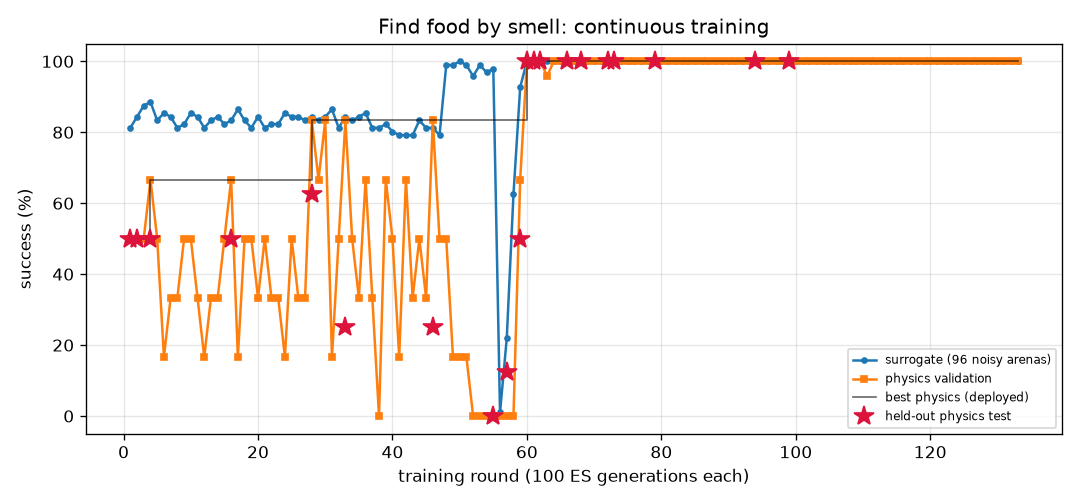
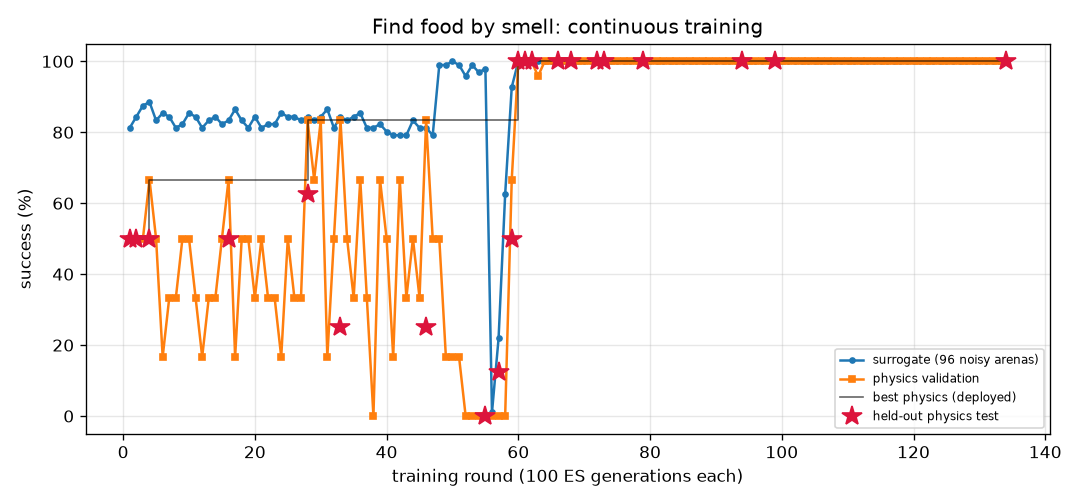
FlyLab: continuous training progress
- walk_forward: optimal, physics val 100% of 24, round 170
- turn: optimal, physics val 100% of 24, round 625
- goto: optimal, physics val 100% of 24, round 154
- odor_seek: optimal, physics val 100% of 24, round 134
- odor_avoid: optimal, physics val 100% of 24, round 600
- light_seek: optimal, physics val 100% of 24, round 338
- light_avoid: optimal, physics val 100% of 24, round 335

diff --git a/projects/09_flylab/training/walk_forward/REPORT.md b/projects/09_flylab/training/walk_forward/REPORT.md
@@ -1,14 +1,14 @@
 # Walk forward (`walk_forward`) — training report
 
-*Auto-generated by `train_brains.py`, last updated 2026-10-22T22:31:02.*
+*Auto-generated by `train_brains.py`, last updated 2026-10-24T22:12:05.*
 
 ![curve](curve.png)
 
 | | |
 |---|---|
-| rounds | 163 |
-| ES generations | 16300 |
-| physics runs | 3926 |
+| rounds | 170 |
+| ES generations | 17000 |
+| physics runs | 4094 |
 | status | **optimal** |
 | best brain | round 116: physics validation **100%** on 24 arenas, surrogate 100% |
 | held-out physics test | **100%** on 32 unseen arenas (95% CI 89%-100%) (errors: [0.13, 0.16, 0.19, 0.16, 0.15, 0.2, 0.17, 0.18, 0.17, 0.19, 0.2, 0.14, 0.17, 0.19, 0.2, 0.2, 0.13, 0.19, 0.16, 0.2, 0.2, 0.16, 0.17, 0.2, 0.13, 0.15, 0.18, 0.14, 0.16, 0.15, 0.19, 0.12]) |
@@ -17,13 +17,6 @@ Physics error per arena: mm from target at the end (< 1.5 and standing still = s
 
 | round | level | gens | sigma | surrogate | physics val | val errors | test | note |
 |---:|---:|---:|---:|---:|---:|---|---:|---|
-| 124 | 3 | 12400 | 0.024 | 100% | 100% | [0.26, 0.34, 0.23, 0.26, 0.34, 0.22, 0.34, 0.22, 0.34, 0.35, 0.24, 0.33, 0.21, 0.22, 0.28, 0.34, 0.24, 0.33, 0.21, 0.3, 0.21, 0.35, 0.33, 0.21] |  | restart from best |
-| 125 | 3 | 12500 | 0.024 | 100% | 100% | [0.45, 0.47, 0.38, 0.45, 0.47, 0.37, 0.46, 0.39, 0.47, 0.45, 0.37, 0.43, 0.39, 0.37, 0.46, 0.44, 0.44, 0.47, 0.4, 0.47, 0.41, 0.45, 0.42, 0.4] |  |  |
-| 126 | 3 | 12600 | 0.024 | 100% | 92% | [0.28, 0.31, 0.03, 0.28, 0.31, 0.04, 0.31, 0.05, 0.31, 0.29, 0.43, 0.24, 0.07, 0.05, 0.3, 0.23, 0.27, 0.3, 0.04, 0.3, 0.23, 0.28, 0.24, 0.08] |  |  |
-| 127 | 3 | 12700 | 0.024 | 100% | 100% | [0.35, 0.42, 0.31, 0.34, 0.41, 0.32, 0.42, 0.32, 0.42, 0.42, 0.32, 0.4, 0.33, 0.33, 0.37, 0.41, 0.34, 0.4, 0.32, 0.38, 0.33, 0.41, 0.4, 0.33] |  |  |
-| 128 | 3 | 12800 | 0.024 | 100% | 100% | [0.29, 0.33, 0.25, 0.29, 0.33, 0.25, 0.32, 0.26, 0.32, 0.31, 0.26, 0.29, 0.26, 0.25, 0.31, 0.3, 0.28, 0.33, 0.26, 0.32, 0.27, 0.31, 0.29, 0.26] |  | restart from best |
-| 129 | 3 | 12900 | 0.024 | 100% | 96% | [0.19, 0.23, 0.07, 0.19, 0.23, 0.04, 0.23, 0.35, 0.23, 0.06, 0.42, 0.11, 0.07, 0.03, 0.2, 0.11, 0.17, 0.23, 0.05, 0.21, 0.06, 0.09, 0.12, 0.07] |  |  |
-| 130 | 3 | 13000 | 0.024 | 100% | 100% | [0.18, 0.26, 0.2, 0.17, 0.26, 0.21, 0.27, 0.19, 0.27, 0.29, 0.2, 0.29, 0.18, 0.21, 0.18, 0.29, 0.18, 0.23, 0.18, 0.2, 0.18, 0.3, 0.29, 0.19] |  |  |
 | 131 | 3 | 13100 | 0.024 | 100% | 100% | [0.17, 0.23, 0.14, 0.17, 0.23, 0.14, 0.23, 0.14, 0.24, 0.23, 0.14, 0.22, 0.13, 0.14, 0.19, 0.22, 0.16, 0.23, 0.14, 0.2, 0.14, 0.23, 0.21, 0.13] |  |  |
 | 132 | 3 | 13200 | 0.024 | 100% | 96% | [0.17, 0.19, 0.04, 0.17, 0.19, 0.07, 0.09, 0.07, 0.19, 0.2, 0.15, 0.1, 0.15, 0.07, 0.18, 0.14, 0.16, 0.19, 0.06, 0.18, 0.08, 0.2, 0.22, 0.15] |  | restart from best |
 | 133 | 3 | 13300 | 0.024 | 100% | 83% | [0.16, 0.19, 0.03, 0.16, 0.18, 0.04, 0.2, 0.55, 0.19, 0.19, 0.04, 0.09, 0.36, 0.47, 0.17, 0.11, 0.14, 0.19, 0.37, 0.18, 0.13, 0.19, 0.11, 0.02] |  |  |
@@ -57,3 +50,10 @@ Physics error per arena: mm from target at the end (< 1.5 and standing still = s
 | 161 | 3 | 16100 | 0.024 | 100% | 92% | [1.02, 0.08, 0.11, 0.02, 0.03, 0.11, 0.08, 0.11, 0.08, 0.12, 0.1, 0.16, 0.1, 0.11, 0.68, 0.15, 0.11, 0.05, 0.12, 0.03, 0.11, 0.13, 0.17, 0.11] |  |  |
 | 162 | 3 | 16200 | 0.024 | 100% | 100% | [0.11, 0.17, 0.15, 0.11, 0.16, 0.16, 0.18, 0.12, 0.17, 0.23, 0.17, 0.23, 0.13, 0.16, 0.11, 0.23, 0.1, 0.14, 0.11, 0.12, 0.11, 0.23, 0.24, 0.13] |  |  |
 | 163 | 3 | 16300 | 0.024 | 99% | 92% | [0.15, 0.2, 0.22, 0.12, 0.19, 0.21, 0.22, 0.2, 0.21, 0.26, 0.23, 0.27, 0.19, 0.21, 0.13, 0.27, 0.3, 0.17, 0.19, 0.15, 0.17, 0.27, 0.27, 0.19] |  |  |
+| 164 | 3 | 16400 | 0.025 | 98% | 92% | [0.12, 0.25, 0.07, 0.12, 0.24, 0.09, 0.27, 0.14, 0.25, 0.3, 0.1, 0.07, 0.1, 0.06, 0.11, 0.08, 0.14, 0.19, 0.15, 0.13, 0.59, 0.29, 0.11, 0.21] |  | restart from best |
+| 165 | 3 | 16500 | 0.024 | 100% | 100% | [0.16, 0.16, 0.13, 0.16, 0.16, 0.12, 0.16, 0.15, 0.16, 0.15, 0.11, 0.14, 0.15, 0.12, 0.16, 0.14, 0.16, 0.17, 0.15, 0.17, 0.15, 0.15, 0.14, 0.15] |  |  |
+| 166 | 3 | 16600 | 0.024 | 100% | 100% | [0.19, 0.29, 0.13, 0.19, 0.29, 0.14, 0.28, 0.12, 0.28, 0.28, 0.14, 0.25, 0.12, 0.13, 0.23, 0.27, 0.17, 0.28, 0.13, 0.24, 0.14, 0.28, 0.25, 0.12] |  |  |
+| 167 | 3 | 16700 | 0.024 | 100% | 92% | [0.09, 0.17, 0.04, 0.02, 0.16, 0.05, 0.19, 0.57, 0.18, 0.23, 0.04, 0.25, 0.45, 0.04, 0.11, 0.24, 0.73, 0.07, 0.55, 0.15, 0.44, 0.24, 0.25, 0.09] |  |  |
+| 168 | 3 | 16800 | 0.024 | 100% | 79% | [0.04, 0.2, 0.11, 0.11, 0.32, 0.05, 0.38, 0.09, 0.07, 0.55, 0.14, 0.33, 0.08, 0.06, 0.45, 0.21, 0.1, 0.18, 0.09, 0.05, 0.09, 0.37, 0.06, 0.08] |  | restart from best |
+| 169 | 3 | 16900 | 0.024 | 100% | 100% | [0.31, 0.3, 0.3, 0.31, 0.31, 0.29, 0.3, 0.3, 0.3, 0.29, 0.27, 0.27, 0.3, 0.29, 0.31, 0.28, 0.31, 0.31, 0.3, 0.31, 0.31, 0.28, 0.26, 0.3] |  |  |
+| 170 | 3 | 17000 | 0.024 | 100% | 100% | [0.14, 0.18, 0.13, 0.14, 0.17, 0.13, 0.18, 0.13, 0.18, 0.2, 0.13, 0.22, 0.13, 0.13, 0.14, 0.21, 0.14, 0.16, 0.13, 0.16, 0.13, 0.2, 0.21, 0.13] |  |  |

diff --git a/projects/09_flylab/training/goto/REPORT.md b/projects/09_flylab/training/goto/REPORT.md
@@ -1,14 +1,14 @@
 # Go to a location (`goto`) — training report
 
-*Auto-generated by `train_brains.py`, last updated 2026-10-24T21:09:36.*
+*Auto-generated by `train_brains.py`, last updated 2026-10-24T21:33:08.*
 
 ![curve](curve.png)
 
 | | |
 |---|---|
-| rounds | 152 |
-| ES generations | 15200 |
-| physics runs | 3534 |
+| rounds | 154 |
+| ES generations | 15400 |
+| physics runs | 3582 |
 | status | **optimal** |
 | best brain | round 80: physics validation **100%** on 24 arenas, surrogate 100% |
 | held-out physics test | **100%** on 32 unseen arenas (95% CI 89%-100%) (errors: [0.36, 0.41, 0.3, 0.45, 0.32, 0.33, 0.33, 0.31, 0.35, 0.36, 0.39, 0.36, 0.28, 0.31, 0.4, 0.39, 0.34, 0.39, 0.3, 0.34, 0.36, 0.36, 0.44, 0.34, 0.3, 0.33, 0.4, 0.33, 0.29, 0.43, 0.43, 0.39]) |
@@ -17,8 +17,6 @@ Physics error per arena: mm from target at the end (< 1.5 and standing still = s
 
 | round | level | gens | sigma | surrogate | physics val | val errors | test | note |
 |---:|---:|---:|---:|---:|---:|---|---:|---|
-| 113 | 3 | 11300 | 0.024 | 99% | 100% | [0.44, 0.39, 0.28, 0.36, 0.29, 0.31, 0.39, 0.35, 0.37, 0.32, 0.31, 0.35, 0.39, 0.32, 0.37, 0.36, 0.46, 0.36, 0.3, 0.4, 0.33, 0.32, 0.43, 0.34] |  |  |
-| 114 | 3 | 11400 | 0.025 | 100% | 100% | [0.46, 0.45, 0.37, 0.42, 0.33, 0.41, 0.42, 0.48, 0.46, 0.32, 0.34, 0.4, 0.48, 0.37, 0.36, 0.4, 0.48, 0.41, 0.33, 0.46, 0.39, 0.33, 0.49, 0.41] |  |  |
 | 115 | 3 | 11500 | 0.024 | 100% | 100% | [0.42, 0.42, 0.27, 0.31, 0.29, 0.3, 0.39, 0.38, 0.35, 0.29, 0.28, 0.29, 0.37, 0.32, 0.39, 0.38, 0.43, 0.3, 0.27, 0.35, 0.35, 0.28, 0.4, 0.31] |  |  |
 | 116 | 3 | 11600 | 0.024 | 99% | 100% | [0.71, 0.72, 0.59, 0.6, 0.56, 0.59, 0.71, 0.66, 0.68, 0.56, 0.53, 0.57, 0.69, 0.59, 0.65, 0.65, 0.75, 0.64, 0.53, 0.65, 0.61, 0.55, 0.75, 0.58] |  | restart from best |
 | 117 | 3 | 11700 | 0.024 | 99% | 100% | [0.56, 0.54, 0.44, 0.51, 0.42, 0.48, 0.5, 0.5, 0.57, 0.43, 0.43, 0.5, 0.56, 0.46, 0.47, 0.45, 0.56, 0.49, 0.41, 0.54, 0.44, 0.42, 0.59, 0.53] |  |  |
@@ -57,3 +55,5 @@ Physics error per arena: mm from target at the end (< 1.5 and standing still = s
 | 150 | 3 | 15000 | 0.024 | 100% | 100% | [0.55, 0.47, 0.39, 0.42, 0.37, 0.37, 0.53, 0.36, 0.43, 0.38, 0.35, 0.42, 0.45, 0.35, 0.41, 0.43, 0.53, 0.43, 0.37, 0.48, 0.41, 0.41, 0.5, 0.41] |  |  |
 | 151 | 3 | 15100 | 0.024 | 99% | 100% | [0.54, 0.49, 0.36, 0.39, 0.37, 0.37, 0.52, 0.42, 0.44, 0.37, 0.34, 0.4, 0.46, 0.36, 0.41, 0.44, 0.5, 0.41, 0.37, 0.44, 0.41, 0.38, 0.5, 0.38] |  |  |
 | 152 | 3 | 15200 | 0.025 | 99% | 100% | [0.55, 0.53, 0.37, 0.42, 0.39, 0.41, 0.54, 0.44, 0.47, 0.39, 0.37, 0.43, 0.49, 0.39, 0.42, 0.47, 0.54, 0.44, 0.38, 0.47, 0.44, 0.39, 0.53, 0.41] |  | restart from best |
+| 153 | 3 | 15300 | 0.024 | 100% | 100% | [0.5, 0.47, 0.37, 0.38, 0.35, 0.35, 0.52, 0.38, 0.39, 0.37, 0.35, 0.37, 0.42, 0.34, 0.36, 0.43, 0.47, 0.39, 0.36, 0.42, 0.4, 0.37, 0.44, 0.37] |  |  |
+| 154 | 3 | 15400 | 0.024 | 100% | 100% | [0.41, 0.49, 0.43, 0.34, 0.37, 0.36, 0.41, 0.4, 0.37, 0.34, 0.34, 0.33, 0.37, 0.38, 0.41, 0.44, 0.4, 0.31, 0.33, 0.36, 0.43, 0.31, 0.38, 0.35] |  |  |

diff --git a/projects/09_flylab/training/odor_seek/REPORT.md b/projects/09_flylab/training/odor_seek/REPORT.md
@@ -1,23 +1,22 @@
 # Find food by smell (`odor_seek`) — training report
 
-*Auto-generated by `train_brains.py`, last updated 2026-10-22T22:14:08.*
+*Auto-generated by `train_brains.py`, last updated 2026-10-24T22:04:35.*
 
 ![curve](curve.png)
 
 | | |
 |---|---|
-| rounds | 133 |
-| ES generations | 13300 |
-| physics runs | 2558 |
+| rounds | 134 |
+| ES generations | 13400 |
+| physics runs | 2614 |
 | status | **optimal** |
-| best brain | round 99: physics validation **100%** on 24 arenas, surrogate 100% |
-| held-out physics test | **100%** on 32 unseen arenas (95% CI 89%-100%) (errors: [0.16, 0.18, 0.15, 0.21, 0.19, 0.16, 0.21, 0.2, 0.2, 0.18, 0.15, 0.18, 0.15, 0.2, 0.18, 0.19, 0.13, 0.16, 0.2, 0.2, 0.21, 0.15, 0.2, 0.17, 0.19, 0.25, 0.15, 0.19, 0.26, 0.16, 0.2, 0.26]) |
+| best brain | round 134: physics validation **100%** on 24 arenas, surrogate 100% |
+| held-out physics test | **100%** on 32 unseen arenas (95% CI 89%-100%) (errors: [0.07, 0.1, 0.12, 0.09, 0.05, 0.09, 0.08, 0.09, 0.09, 0.07, 0.14, 0.09, 0.13, 0.11, 0.13, 0.1, 0.06, 0.09, 0.12, 0.08, 0.16, 0.07, 0.1, 0.08, 0.1, 0.1, 0.05, 0.13, 0.14, 0.01, 0.07, 0.13]) |
 
 Physics error per arena: mm from target at the end (< 1.5 and standing still = success).
 
 | round | level | gens | sigma | surrogate | physics val | val errors | test | note |
 |---:|---:|---:|---:|---:|---:|---|---:|---|
-| 94 | 3 | 9400 | 0.024 | 100% | 100% | [0.2, 0.22, 0.16, 0.15, 0.21, 0.2, 0.19, 0.21, 0.26, 0.22, 0.21, 0.2, 0.18, 0.14, 0.18, 0.2, 0.19, 0.2, 0.17, 0.22, 0.15, 0.23, 0.24, 0.14] | 100% | new best |
 | 95 | 3 | 9500 | 0.024 | 100% | 100% | [0.17, 0.2, 0.18, 0.27, 0.24, 0.2, 0.26, 0.16, 0.27, 0.23, 0.18, 0.2, 0.24, 0.16, 0.18, 0.25, 0.17, 0.17, 0.18, 0.25, 0.28, 0.19, 0.2, 0.21] |  |  |
 | 96 | 3 | 9600 | 0.024 | 100% | 100% | [0.23, 0.18, 0.15, 0.24, 0.3, 0.26, 0.26, 0.2, 0.24, 0.27, 0.23, 0.2, 0.18, 0.19, 0.16, 0.17, 0.22, 0.26, 0.21, 0.22, 0.19, 0.24, 0.19, 0.21] |  |  |
 | 97 | 3 | 9700 | 0.024 | 100% | 100% | [0.23, 0.2, 0.21, 0.21, 0.19, 0.26, 0.22, 0.18, 0.21, 0.25, 0.2, 0.26, 0.23, 0.2, 0.23, 0.2, 0.2, 0.18, 0.19, 0.19, 0.24, 0.21, 0.21, 0.24] |  |  |
@@ -57,3 +56,4 @@ Physics error per arena: mm from target at the end (< 1.5 and standing still = s
 | 131 | 3 | 13100 | 0.024 | 100% | 100% | [0.17, 0.25, 0.19, 0.22, 0.26, 0.15, 0.21, 0.2, 0.2, 0.31, 0.15, 0.19, 0.21, 0.21, 0.18, 0.19, 0.15, 0.14, 0.18, 0.2, 0.2, 0.24, 0.15, 0.11] |  | restart from best |
 | 132 | 3 | 13200 | 0.024 | 100% | 100% | [0.21, 0.29, 0.24, 0.26, 0.28, 0.3, 0.27, 0.21, 0.21, 0.25, 0.22, 0.2, 0.19, 0.27, 0.2, 0.13, 0.18, 0.23, 0.21, 0.19, 0.21, 0.31, 0.24, 0.21] |  |  |
 | 133 | 3 | 13300 | 0.024 | 100% | 100% | [0.17, 0.18, 0.16, 0.2, 0.17, 0.23, 0.14, 0.26, 0.17, 0.22, 0.16, 0.18, 0.15, 0.28, 0.23, 0.23, 0.26, 0.18, 0.17, 0.22, 0.16, 0.23, 0.17, 0.24] |  |  |
+| 134 | 3 | 13400 | 0.024 | 100% | 100% | [0.08, 0.09, 0.17, 0.12, 0.08, 0.05, 0.16, 0.12, 0.15, 0.05, 0.03, 0.08, 0.09, 0.05, 0.09, 0.12, 0.06, 0.06, 0.06, 0.11, 0.11, 0.05, 0.14, 0.15] | 100% | new best |

diff --git a/projects/09_flylab/training/TRAINING.md b/projects/09_flylab/training/TRAINING.md
@@ -1,15 +1,15 @@
 # FlyLab brains — continuous training log
 
-*Auto-generated by `train_brains.py`, last updated 2026-10-24T21:12:32.*
+*Auto-generated by `train_brains.py`, last updated 2026-10-24T22:12:05.*
 
 Every skill has its own brain and its own training process: surrogate ES rounds, physics validation in MuJoCo, keep-the-best selection, and a held-out physics test that is never used for selection. See each skill's report for its full round-by-round history. Mastery is progressive: passing a level (100% physics validation, >=95% surrogate) doubles the validation and test arena sets; a brain is **optimal** once it holds up at level 3 (>=95% of 24 validation arenas) AND scores >=90% on the 32 held-out test arenas. Test columns show 95% Wilson confidence intervals.
 
 | skill | rounds | ES generations | physics runs | surrogate | physics val | **physics test** | status |
 |---|---:|---:|---:|---:|---:|---:|---|
-| [Walk forward](walk_forward/REPORT.md) | 163 | 16300 | 3926 | 100% | 100% of 24 | 100% of 32 (CI 89-100%) | **optimal** |
+| [Walk forward](walk_forward/REPORT.md) | 170 | 17000 | 4094 | 100% | 100% of 24 | 100% of 32 (CI 89-100%) | **optimal** |
 | [Turn in place](turn/REPORT.md) | 625 | 62500 | 15246 | 100% | 100% of 24 | 97% of 32 (CI 84-99%) | **optimal** |
-| [Go to a location](goto/REPORT.md) | 152 | 15200 | 3534 | 100% | 100% of 24 | 100% of 32 (CI 89-100%) | **optimal** |
-| [Find food by smell](odor_seek/REPORT.md) | 133 | 13300 | 2558 | 100% | 100% of 24 | 100% of 32 (CI 89-100%) | **optimal** |
+| [Go to a location](goto/REPORT.md) | 154 | 15400 | 3582 | 100% | 100% of 24 | 100% of 32 (CI 89-100%) | **optimal** |
+| [Find food by smell](odor_seek/REPORT.md) | 134 | 13400 | 2614 | 100% | 100% of 24 | 100% of 32 (CI 89-100%) | **optimal** |
 | [Escape a bad smell](odor_avoid/REPORT.md) | 600 | 60000 | 11706 | 97% | 100% of 24 | 97% of 32 (CI 84-99%) | **optimal** |
 | [Walk toward light](light_seek/REPORT.md) | 338 | 33800 | 4960 | 100% | 100% of 24 | 100% of 32 (CI 89-100%) | **optimal** |
 | [Hide from light](light_avoid/REPORT.md) | 335 | 33500 | 8312 | 100% | 100% of 24 | 100% of 32 (CI 89-100%) | **optimal** |
